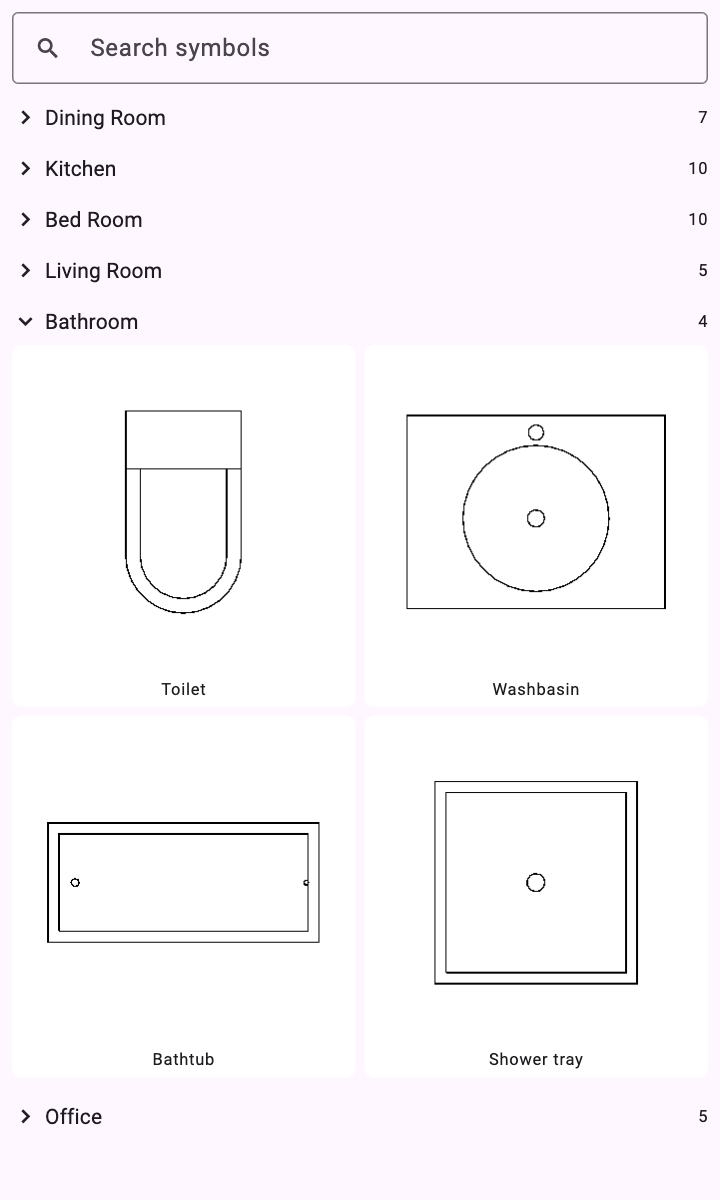
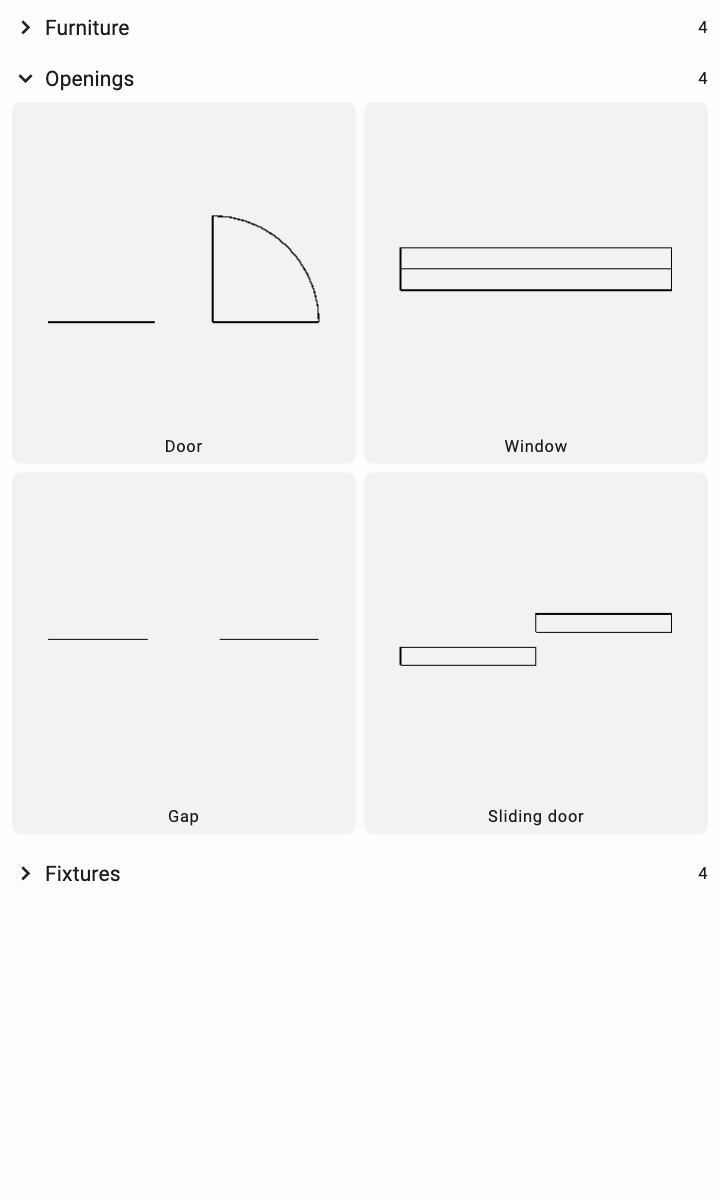
fix(screenshots): the renderer's gallery picture is the renderer's own
Umbrella A11 says a package's pictures show what the package itself gives.
Scene R5 drew the plan library's PlanSymbolGallery; it now draws the
renderer's public SymbolGallery over a library the scene builds from plain
engine shapes (categories and thumbnail documents by hand), so the picture
is the renderer's widget and the engine's shapes. The plan library keeps its
own gallery picture (plan_gallery.png), so the renderer's README keeps a
genuine gallery.

diff --git a/tool/screenshots/test/renderer_scenes_test.dart b/tool/screenshots/test/renderer_scenes_test.dart
@@ -1,12 +1,27 @@
 // The renderer's scenes R1-R5 (package READMEs spec D5): the sample flat in
 // the renderer's own widgets (`RendererStage`, no plan editor widget), and
-// the furniture library in the plan library's `PlanSymbolGallery`, written
-// to jet_cad_2d_flutter/doc/screenshots/ under UPDATE_SCREENSHOTS=1. Public
+// the renderer's own `SymbolGallery` over a hand-built library (umbrella A11:
+// a package's pictures show what the package itself gives), written to
+// jet_cad_2d_flutter/doc/screenshots/ under UPDATE_SCREENSHOTS=1. Public
 // API only: the barrels.
+import 'dart:math' as math;
+
 import 'package:flutter/gestures.dart' show PointerDeviceKind;
 import 'package:flutter/material.dart';
 import 'package:flutter_test/flutter_test.dart';
-import 'package:jet_cad_2d/jet_cad_2d.dart' show BandMode;
+import 'package:jet_cad_2d/jet_cad_2d.dart'
+    show
+        BandMode,
+        DraftDocument,
+        EntityKind,
+        GeometryPayload,
+        ReservedHandles,
+        addDrafted,
+        arcPayload,
+        circlePayload,
+        foregroundFor,
+        linePayload,
+        rectanglePayload;
 import 'package:jet_cad_2d_flutter/jet_cad_2d_flutter.dart';
 import 'package:jet_cad_2d_kit_architecture/jet_cad_2d_kit_architecture.dart';
 import 'package:jet_cad_2d_plan/jet_cad_2d_plan.dart';
@@ -69,6 +84,113 @@ Offset _global(WidgetTester tester, RendererStageState stage, Offset world) {
 // The sample flat's outer corner (buildSampleFlat's kPlanOriginX/Y,
 // unexported): the bedrooms are its top-left quarter.
 const double _x0 = 12000, _y0 = 8000;
+
+/// The gallery picture's open category (spec D5): its grid, under the three
+/// category headers, is what the panel shows.
+const String _openCategory = 'openings';
+
+/// The renderer's own gallery (A11): the renderer's public `SymbolGallery`
+/// over a library this scene builds from the engine's own shapes -- its
+/// categories, and for each symbol a small document its thumbnail paints --
+/// because the gallery widget knows no symbol type. Nothing here is another
+/// package's: the picture is the renderer's widget and the engine's shapes.
+List<GalleryCategory> _library() => [
+      GalleryCategory(name: 'Furniture', id: 'furniture', symbols: [
+        _symbol('chair', 'Chair', (s) {
+          s.rect(0, 0, 450, 450);
+          s.line(0, 90, 450, 90);
+        }),
+        _symbol('table', 'Table', (s) => s.rect(0, 0, 1400, 800)),
+        _symbol('round_table', 'Round table', (s) => s.circle(700, 700, 700)),
+        _symbol('sofa', 'Sofa', (s) {
+          s.rect(0, 0, 1800, 800);
+          s.line(250, 0, 250, 800);
+          s.line(1550, 0, 1550, 800);
+        }),
+      ]),
+      GalleryCategory(name: 'Openings', id: 'openings', symbols: [
+        _symbol('door', 'Door', (s) {
+          s.line(-1400, 0, -300, 0);
+          s.line(300, 0, 1400, 0);
+          s.line(300, 0, 300, 1100);
+          s.arc(300, 0, 1100, 0, math.pi / 2);
+        }),
+        _symbol('window', 'Window', (s) {
+          s.rect(-900, -140, 900, 140);
+          s.line(-900, 0, 900, 0);
+        }),
+        _symbol('gap', 'Gap', (s) {
+          s.line(-1500, 0, -400, 0);
+          s.line(400, 0, 1500, 0);
+        }),
+        _symbol('sliding_door', 'Sliding door', (s) {
+          s.rect(-900, 0, 0, 120);
+          s.rect(0, 220, 900, 340);
+        }),
+      ]),
+      GalleryCategory(name: 'Fixtures', id: 'fixtures', symbols: [
+        _symbol('sink', 'Sink', (s) {
+          s.rect(-500, -350, 500, 350);
+          s.circle(0, 0, 180);
+        }),
+        _symbol('stove', 'Stove', (s) {
+          s.rect(-450, -450, 450, 450);
+          s.circle(-220, -220, 110);
+          s.circle(220, -220, 110);
+          s.circle(-220, 220, 110);
+          s.circle(220, 220, 110);
+        }),
+        _symbol('shower', 'Shower', (s) {
+          s.rect(-500, -500, 500, 500);
+          s.circle(0, 0, 90);
+          s.line(-500, -500, 500, 500);
+        }),
+        _symbol('bath', 'Bath', (s) {
+          s.rect(-900, -400, 900, 400);
+          s.circle(-500, 0, 250);
+        }),
+      ]),
+    ];
+
+/// One cell of the library: [id] keys the cell and the thumbnail cache,
+/// [label] is shown under it, and [draw] fills the thumbnail's document.
+GallerySymbol _symbol(String id, String label, void Function(_Sheet) draw) =>
+    GallerySymbol(
+      id: id,
+      label: label,
+      thumbnailKey: id,
+      thumbnailDocument: () => _document(draw),
+    );
+
+/// A document of plain engine shapes for one thumbnail.
+DraftDocument _document(void Function(_Sheet) draw) {
+  final doc = DraftDocument.empty();
+  draw(_Sheet(doc));
+  return doc;
+}
+
+/// Adds the engine's own entities to a document: what the gallery's
+/// thumbnails are made of, since the renderer knows no symbol type.
+class _Sheet {
+  _Sheet(this.doc);
+
+  final DraftDocument doc;
+
+  void line(double x1, double y1, double x2, double y2) =>
+      _add(EntityKind.line, linePayload(Vector2(x1, y1), Vector2(x2, y2)));
+
+  void rect(double x1, double y1, double x2, double y2) => _add(
+      EntityKind.polyline, rectanglePayload(Vector2(x1, y1), Vector2(x2, y2)));
+
+  void circle(double x, double y, double r) =>
+      _add(EntityKind.circle, circlePayload(Vector2(x, y), r));
+
+  void arc(double x, double y, double r, double start, double sweep) =>
+      _add(EntityKind.arc, arcPayload(Vector2(x, y), r, start, sweep));
+
+  void _add(EntityKind kind, GeometryPayload payload) => doc.commands.execute(
+      addDrafted(doc, kind, payload, layer: ReservedHandles.layerZero));
+}
 
 void main() {
   setUpAll(loadManifestFonts);
@@ -142,46 +264,52 @@ void main() {
     await tester.pump();
   });
 
-  testWidgets('R5 symbol_gallery.png: the furniture library, at kPanel',
+  testWidgets('R5 symbol_gallery.png: the renderer\'s own SymbolGallery',
       (tester) async {
-    // The architecture kit's furniture, read through the plan library's own
-    // loader (rootBundle): real time, bounded.
-    final controller = PlanController(kits: [architectureKit]);
-    addTearDown(controller.dispose);
-    for (var i = 0;
-        i < 400 && controller.symbolsState.value != SymbolsState.ready;
-        i++) {
-      await tester.runAsync(
-          () => Future<void>.delayed(const Duration(milliseconds: 20)));
-      await tester.pump();
-    }
-    expect(controller.symbolsState.value, SymbolsState.ready,
-        reason: 'premise: the furniture library loaded');
+    // The renderer's public `SymbolGallery` (A11): a collapsible library of
+    // thumbnails the renderer itself paints, its categories hand-built here
+    // so no other package appears in the picture. One category open (spec
+    // D5), the rest collapsed.
+    final thumbnails = SymbolThumbnails();
+    addTearDown(thumbnails.dispose);
+    final categories = _library();
     await pumpScene(
         tester,
         MaterialApp(
           debugShowCheckedModeBanner: false,
           theme: ThemeData(fontFamily: 'Roboto'),
-          home: Material(child: PlanSymbolGallery(controller: controller)),
+          home: Material(
+            color: const Color(0xFFFDFDFD),
+            child: SymbolGallery(
+              categories: categories,
+              selectedId: null,
+              enabled: true,
+              onSelect: (_) {},
+              thumbnails: thumbnails,
+              foreground: foregroundFor(0xF2F2F2),
+              selectedForeground: foregroundFor(0xF2F2F2),
+              cellColor: const Color(0xFFF2F2F2),
+            ),
+          ),
         ),
         size: kPanel);
     await settle(tester);
-    // One category open (spec D5): every other header collapsed, so the
-    // panel shows the library's categories and one of them whole. The
-    // header key carries the group id `<kit>/<English category>`.
-    const open = 'architecture/Bathroom';
-    final gallery = tester.widget<SymbolGallery>(find.byType(SymbolGallery));
-    expect([for (final c in gallery.categories) c.id], contains(open));
-    for (final c in gallery.categories) {
-      if (c.id == open) continue;
+    // Collapse every category, in the gallery's order: only visible headers
+    // are built, so each collapse reveals the next. Then open the one to
+    // show.
+    for (final c in categories) {
       final header = find.byKey(Key('symbol-group-${c.id}'));
       await tester.ensureVisible(header);
       await tester.tap(header);
       await tester.pump();
     }
     await tester.pumpAndSettle();
-    // No state to wait on: the thumbnails paint asynchronously, over
-    // settle's forty rounds (an eyes-on check confirms they did).
+    final open = find.byKey(Key('symbol-group-$_openCategory'));
+    await tester.ensureVisible(open);
+    await tester.tap(open);
+    await tester.pumpAndSettle();
+    // The thumbnails paint asynchronously, over settle's rounds (an eyes-on
+    // check confirms they did).
     await settle(tester);
     await shoot(tester,
         package: _package, file: 'symbol_gallery.png', size: kPanel);

diff --git a/packages/jet_cad_2d_flutter/README.md b/packages/jet_cad_2d_flutter/README.md
@@ -59,11 +59,11 @@ A few entities selected, each with its grips, and one entity highlighted under t
 
 A crossing band, dragged right to left, mid-drag: it selects what it touches, not only what it encloses.
 
-![PlanSymbolGallery, with its search field and the Bathroom category open](https://raw.githubusercontent.com/a-urel/jet-cad/jet_cad_2d_flutter-v0.7.3/packages/jet_cad_2d_flutter/doc/screenshots/symbol_gallery.png)
+![SymbolGallery, a library of thumbnails in collapsible categories](https://raw.githubusercontent.com/a-urel/jet-cad/jet_cad_2d_flutter-v0.7.3/packages/jet_cad_2d_flutter/doc/screenshots/symbol_gallery.png)
 
-`PlanSymbolGallery` (the plan library's gallery over `SymbolGallery`): a
-furniture library in collapsible categories of thumbnails, its search field
-above, the Bathroom category open.
+`SymbolGallery`: a library of thumbnail cells in the collapsible categories
+its caller hands it, each category's count beside its header. The cells'
+images are painted and cached by `SymbolThumbnails`.
 
 These pictures are made by `tool/screenshots` in the repository, with the app's own theme.
 
